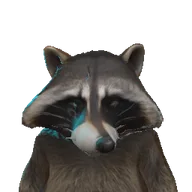
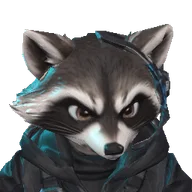
Third character batch 11-22: portraits for the four new and the swapped Shiba, Salamander Warlord and Bandit (Bandit's old wider view dropped)
Claude-Session: https://claude.ai/code/session_01PfNGaHafsFeFAcWZgUEzoB

diff --git a/packages/client/src/frontend/portraitIndex.ts b/packages/client/src/frontend/portraitIndex.ts
@@ -21,8 +21,9 @@ export const SHIPPED_PORTRAITS: Readonly<Record<string, string>> = {
   'core.astronaut': 'core.astronaut.webp?v=587f3904cd',
   'core.axolotl': 'core.axolotl.webp?v=96d443a99b',
   'core.azuresentinel': 'core.azuresentinel.webp?v=e6894ca1d0',
+  'core.baboon': 'core.baboon.webp?v=38fecf4945',
   'core.badgeragent': 'core.badgeragent.webp?v=9d26643f2d',
-  'core.bandit': 'core.bandit.webp?v=a0853e9ff5',
+  'core.bandit': 'core.bandit.webp?v=2a70c51dee',
   'core.barnaby': 'core.barnaby.webp?v=aa58b85db5',
   'core.barnacle': 'core.barnacle.webp?v=f9541571ca',
   'core.basile': 'core.basile.webp?v=da4db6f833',
@@ -49,6 +50,7 @@ export const SHIPPED_PORTRAITS: Readonly<Record<string, string>> = {
   'core.celestialknight': 'core.celestialknight.webp?v=cfbede0ff9',
   'core.chameleon': 'core.chameleon.webp?v=edd7482869',
   'core.cheetah': 'core.cheetah.webp?v=c842ee9d7c',
+  'core.chimpanzee': 'core.chimpanzee.webp?v=a612501eab',
   'core.coachtortoise': 'core.coachtortoise.webp?v=dabdc8b0b0',
   'core.commando': 'core.commando.webp?v=07f61b931d',
   'core.crewalchemist': 'core.crewalchemist.webp?v=2f5e14c2c1',
@@ -116,6 +118,7 @@ export const SHIPPED_PORTRAITS: Readonly<Record<string, string>> = {
   'core.knight': 'core.knight.webp?v=fe7d4b3d86',
   'core.larry': 'core.larry.webp?v=a2adf05270',
   'core.lionsuit': 'core.lionsuit.webp?v=6f110457a8',
+  'core.magmajuggernaut': 'core.magmajuggernaut.webp?v=ad509d00db',
   'core.mantisshrimp': 'core.mantisshrimp.webp?v=86cee56f70',
   'core.maskedfigure': 'core.maskedfigure.webp?v=ca73b9d208',
   'core.mechanic': 'core.mechanic.webp?v=ab3544b0af',
@@ -164,7 +167,7 @@ export const SHIPPED_PORTRAITS: Readonly<Record<string, string>> = {
   'core.shade': 'core.shade.webp?v=23ba646576',
   'core.shadowenforcer': 'core.shadowenforcer.webp?v=107ef2e445',
   'core.shambler': 'core.shambler.webp?v=935dc336c2',
-  'core.shiba': 'core.shiba.webp?v=670ab1ac8f',
+  'core.shiba': 'core.shiba.webp?v=7c28b12ccb',
   'core.skeletonbiker': 'core.skeletonbiker.webp?v=7c43f67e50',
   'core.skywarrior': 'core.skywarrior.webp?v=d1b0488588',
   'core.slugger': 'core.slugger.webp?v=567a3d8273',
@@ -193,6 +196,7 @@ export const SHIPPED_PORTRAITS: Readonly<Record<string, string>> = {
   'core.tposesoldier2': 'core.tposesoldier2.webp?v=e573dae467',
   'core.tracker': 'core.tracker.webp?v=d8fda50115',
   'core.trex': 'core.trex.webp?v=e1b52825d3',
+  'core.tuxedocat': 'core.tuxedocat.webp?v=0e1951b38a',
   'core.umpire': 'core.umpire.webp?v=e378d957ee',
   'core.unclebao': 'core.unclebao.webp?v=942f1fa6fc',
   'core.undeadsoldier': 'core.undeadsoldier.webp?v=8b2cabe681',
@@ -203,7 +207,7 @@ export const SHIPPED_PORTRAITS: Readonly<Record<string, string>> = {
   'core.visitor': 'core.visitor.webp?v=8f30e357e2',
   'core.wackyshark': 'core.wackyshark.webp?v=1d84950f2c',
   'core.warden': 'core.warden.webp?v=3302637426',
-  'core.warlord': 'core.warlord.webp?v=5d340aaa9f',
+  'core.warlord': 'core.warlord.webp?v=e432f4f578',
   'core.warriorsentinel': 'core.warriorsentinel.webp?v=5300586db5',
   'core.wayfarer': 'core.wayfarer.webp?v=e3d4b89af6',
   'core.wwiisoldier': 'core.wwiisoldier.webp?v=21ec2ae183',

diff --git a/packages/client/src/frontend/portraits.ts b/packages/client/src/frontend/portraits.ts
@@ -35,8 +35,7 @@ export interface PortraitView {
 /** Looks whose face the default view hides or leaves off centre (tools/content/capture-portraits.mjs ships them). */
 const PORTRAIT_VIEWS: Record<string, PortraitView> = {
   // The Roster Board's thumbnail flags (owner, 2026-11-01): faces cut off, low in the frame or hidden.
-  // Bandit's ears and snout ran off the frame: wider, from a little below, so the snout shows past his paws.
-  'core.bandit': { from: [0.1, -0.1, 1], aim: [0, -0.03, 0], zoom: 1.5 },
+  // (Bandit had a wider view here for his old model's ears and snout; the raccoon hacker model of 2026-11-22 frames by default.)
   // Wide heads and long snouts (Boglurker's crocodile, a frog) filled the frame edge to edge.
   'core.boglurker': { aim: [0, 0.02, 0], zoom: 1.45 },
   'core.croakley': { zoom: 1.4 },
